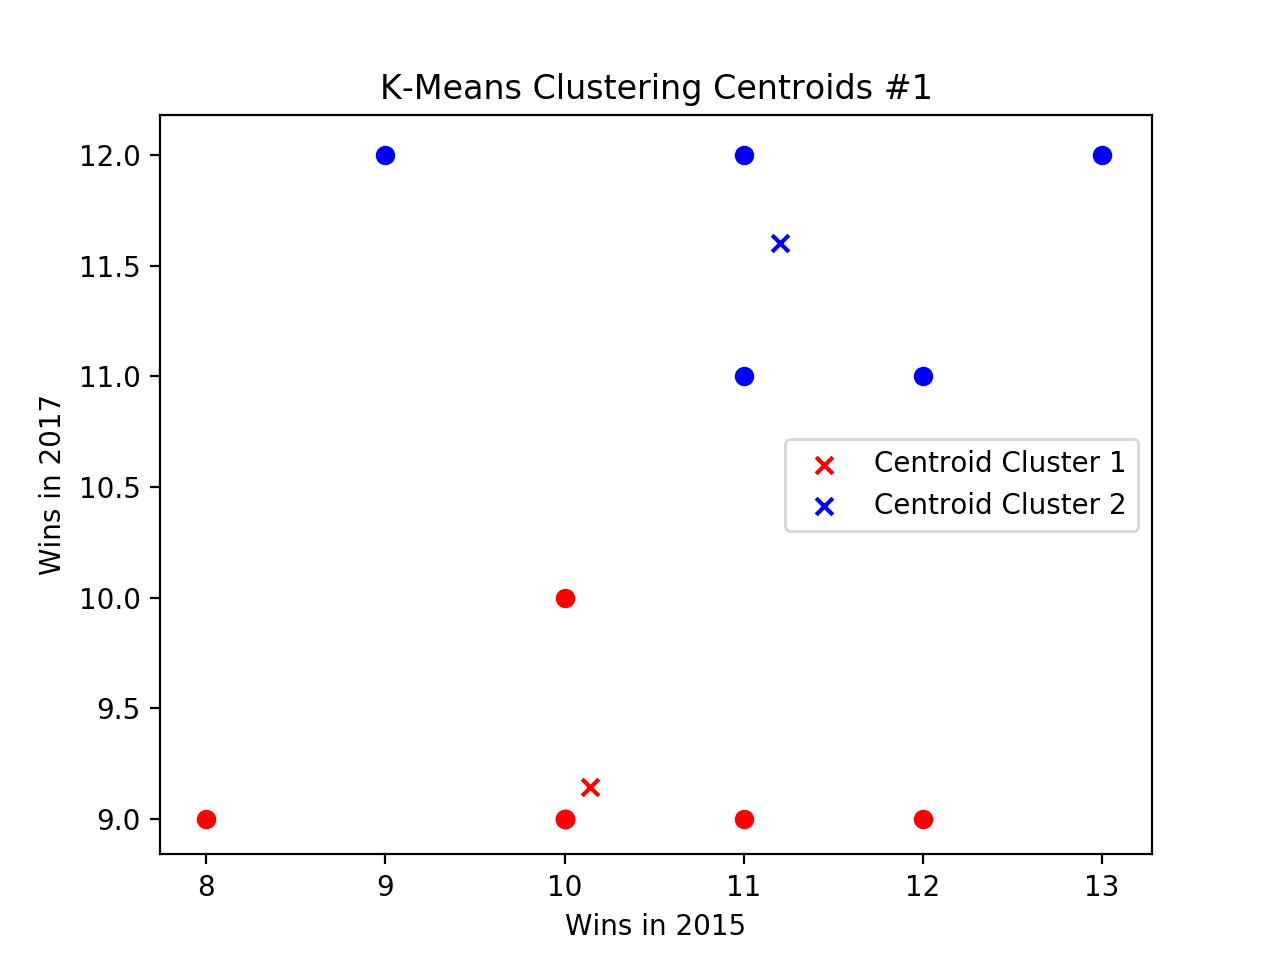
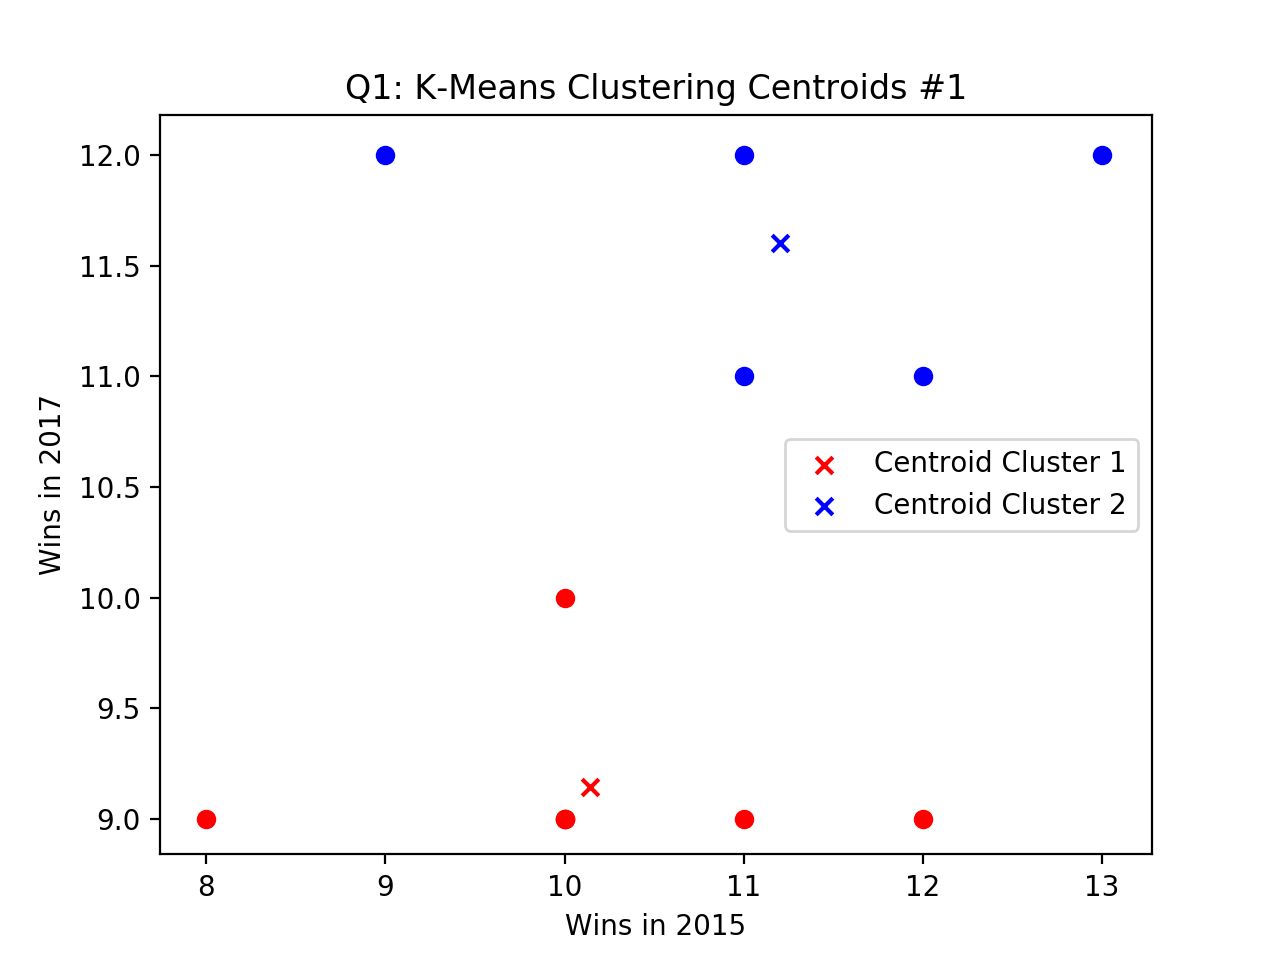
q2

Changed region(s): [[0.2812, 0.0625, 0.75, 0.125]]

diff --git a/pa03/mzanardo-hw3-1.py b/pa03/mzanardo-hw3-1.py
@@ -12,7 +12,6 @@ def euclidean(x1, y1, x2, y2):
 
 
 data = {}
-#k = ""
 
 with open("Dataset-clustering.txt") as f:
 	next(f)
@@ -120,7 +119,7 @@ ax.scatter(cent2X, cent2Y, c="b", marker="x", label="Centroid Cluster 2")
 
 plt.xlabel("Wins in 2015")
 plt.ylabel("Wins in 2017")
-plt.title("K-Means Clustering Centroids #1")
+plt.title("Q1: K-Means Clustering Centroids #1")
 plt.legend(loc=5)
 plt.show()
 
@@ -196,7 +195,7 @@ ax.scatter(cent2X, cent2Y, c="b", marker="x", label="Centroid Cluster 2")
 
 plt.xlabel("Wins in 2015")
 plt.ylabel("Wins in 2017")
-plt.title("K-Means Clustering Centroids #2")
+plt.title("Q1: K-Means Clustering Centroids #2")
 plt.legend(loc=5)
 plt.show()
 

diff --git a/pa03/mzanardo-hw3-2.py b/pa03/mzanardo-hw3-2.py
@@ -42,9 +42,9 @@ rank17 = []
 for k, v in data.items():
 	for key, value in data[k].items():
 		if key == "rank15":
-			rank15.append(float(value))
+			rank15.append(int(value))
 		if key == "rank17":
-			rank17.append(float(value))
+			rank17.append(int(value))
 
 cent1X = 1
 cent1Y = 1
@@ -118,6 +118,7 @@ ax.scatter(cent2X, cent2Y, c="b", marker="x", label="Centroid Cluster 2")
 
 plt.xlabel("Ranking in 2015")
 plt.ylabel("Ranking in 2017")
-plt.title("K-Means Clustering Centroids #1")
-plt.legend(loc=5)
+plt.axis([0, 25, 0, 25])
+plt.title("Q2: K-Means Clustering ")
+plt.legend(loc=1)
 plt.show()
